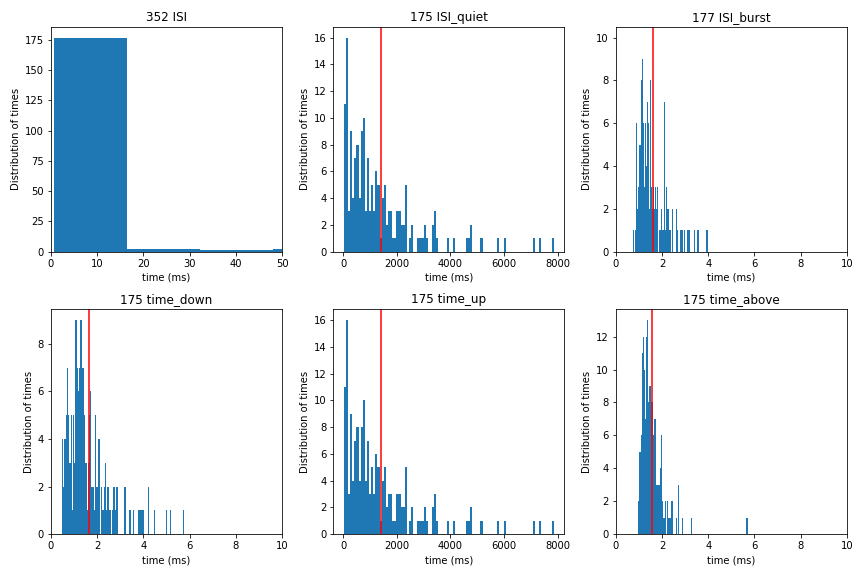
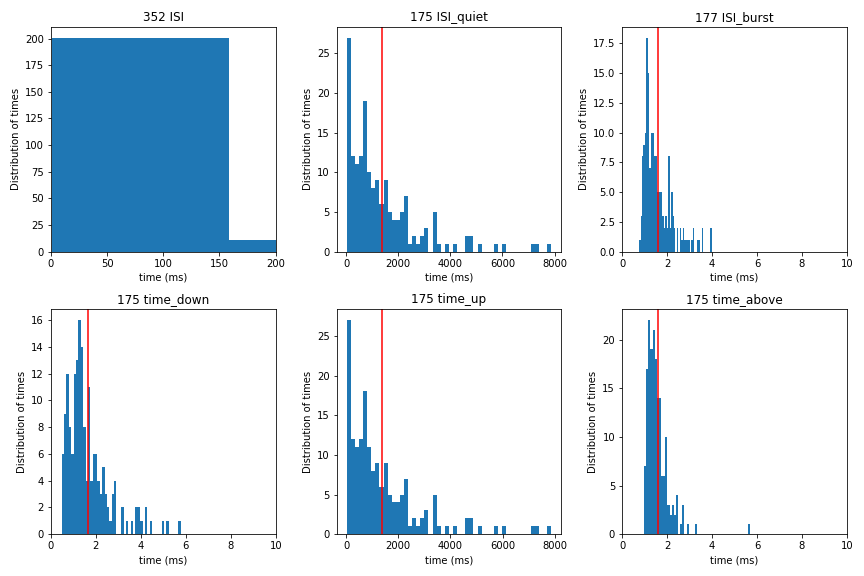
Memory issue fixed?

diff --git a/Neuron.py b/Neuron.py
@@ -24,31 +24,25 @@ def get_simulation(file_name):
 
 def simulate_neuron(tau_n, Iapp, number, v0, n0, duration, I_noise):
     '''runs simulation, returns M,Mv and Mn as objects with dimensionless np.arrays attributes'''
-    #run simulation    
-    print(tau_n, Iapp)
+    #run simulation       
     neuron = NeuronGroup(number, eqs,  threshold = 'v >-.02*volt', refractory = 'v > -.03*volt')
     neuron.v = v0 
     neuron.n = n0
         
-    M_temp = SpikeMonitor(neuron, variables = 'v')
-    Mv_temp = StateMonitor(neuron, 'v', record=True)
-    Mn_temp = StateMonitor(neuron, 'n', record=True)
+    M = SpikeMonitor(neuron, variables = 'v')
+    Mv = StateMonitor(neuron, 'v', record=True)
+    Mn = StateMonitor(neuron, 'n', record=True)
     
     run(duration, report='text')
-        
-    Spike_t = np.array(M_temp.t)
-    Spike_i = np.array(M_temp.i)
-    t = np.array(Mv_temp.t)
-    V = np.array(Mv_temp.v)*1000 #-----> mV
-    n = np.array(Mn_temp.n)
-               
-    return Spike_t, Spike_i, t, V, n    
+
+    return M.t_, M.i_, Mv.t_, Mv.v_, Mn.n_    
     
 def find_points(tau_n, Iapp, v0=[-75,-65,-40, -64,-60,-50]*mV,n0=[.05,.05,-.1, -.1,-.1,.0], plot = False):
     '''finds the node and lowest point of limimt cycle in terms of voltage values
         trying to define threshold automatically '''
     Spike_t, Spike_i, t, V, n = simulate_neuron(tau_n=tau_n, Iapp=Iapp, number = 6, v0=v0, n0=n0, duration=20*ms, 
                                       I_noise=0*uA)
+    V*=1000
     node = [max(V[0]),n[0,np.argmax(V[0])]]
     cycle_boundary= [min (V[-1]), n[0,np.argmin(V[-1])]]
     saddle = find_saddle(tau_n, Iapp, node, cycle_boundary)
@@ -90,6 +84,7 @@ def plot_everything(tau_n, Iapp, duration, I_noise, number =1, v0=-30*mV, n0=-0,
         
     file_name=str(tau_n)+'  '+str(Iapp)+'  ('+str(v0)+', '+str(n0)+')  '+str(duration/second)+' s  '+str(I_noise)
     print(file_name)
+    
 
     try:     
         results = get_simulation(file_name)
@@ -97,6 +92,8 @@ def plot_everything(tau_n, Iapp, duration, I_noise, number =1, v0=-30*mV, n0=-0,
     
     except IOError:
         Spike_t, Spike_i, t, V, n= simulate_neuron(tau_n, Iapp, number, v0, n0, duration, I_noise)
+        V*=1000
+        print(Spike_t, Spike_i)
          
         keys = ['quiet_ISI_indices', 'quiet_ISI_start', 'quiet_ISI_end', 'break_point', 
                 'first_down', 'last_down', 'first_up', 'last_up', 'ISI', 'ISI_quiet', 
@@ -107,7 +104,8 @@ def plot_everything(tau_n, Iapp, duration, I_noise, number =1, v0=-30*mV, n0=-0,
         for i in range(number):
             V_i=V[i]
             n_i=n[i]
-            Spikes = Spike_t[np.where(Spike_i == i)]
+            print(np.where(Spike_i==i)[0])
+            Spikes = Spike_t[np.where(Spike_i == i)[0]]
             result_i = collect_ISI_stats(t, V_i, n_i, Spikes, saddle, sep_slope, node)
             for key in keys:
                 results[key].append(result_i[key]) 
@@ -260,12 +258,12 @@ def plot_histograms(results):
         ax.set_xlabel('time (ms)')
         ax.set_ylabel('Distribution of times')
         if key == 'ISI':
-            ax.hist(flat_intervals[np.where(flat_intervals>.0005)]*1000, normed = False, bins = 500)
+            ax.hist(flat_intervals[np.where(flat_intervals>.0005)]*1000, normed = False, bins = 50)
         else:
-            ax.hist(flat_intervals*1000, normed = False, bins = 100)
+            ax.hist(flat_intervals*1000, normed = False, bins = 50)
         ax.axvline(flat_intervals.mean()*1000, color = 'r')
         if key == 'ISI': 
-            ax.set_xlim((0,50))
+            ax.set_xlim((0,200))
             xmin,xmax = ax.get_xlim()
         elif key in ['ISI_burst', 'time_down', 'time_above']:
             ax.set_xlim((0,10))
@@ -340,10 +338,10 @@ tau = 1.0*ms
 #parameters to play with
 
 # .1575 + 2.3, .155 + 1.2, .16 + 3.2, .1625 + 3.9
-tau_n = .16*ms
-Iapp =3.5 * uA #/cm**2
+tau_n = .155*ms
+Iapp =1.1 * uA #/cm**2
 I_noise = 2.5*uA
-duration = 50000*ms
+duration = 50*ms
 
 
 
@@ -361,7 +359,7 @@ m_inf = 1./(1+exp((-20-v/mV)/15.)) : 1
 #ISIs = calculate_ISI(Spikes)
 #plt.hist(ISIs, bins = 100)
 
-plot_everything(tau_n=tau_n, Iapp=Iapp, duration=duration, I_noise=I_noise, number =5, v0=-50*mV, n0=.01, plot = True)
+plot_everything(tau_n=tau_n, Iapp=Iapp, duration=duration, I_noise=I_noise, number =5, v0=-50*mV, n0=.01, plot=True)
 
 
 #find_points(tau_n=tau_n, Iapp=Iapp, plot = True)
